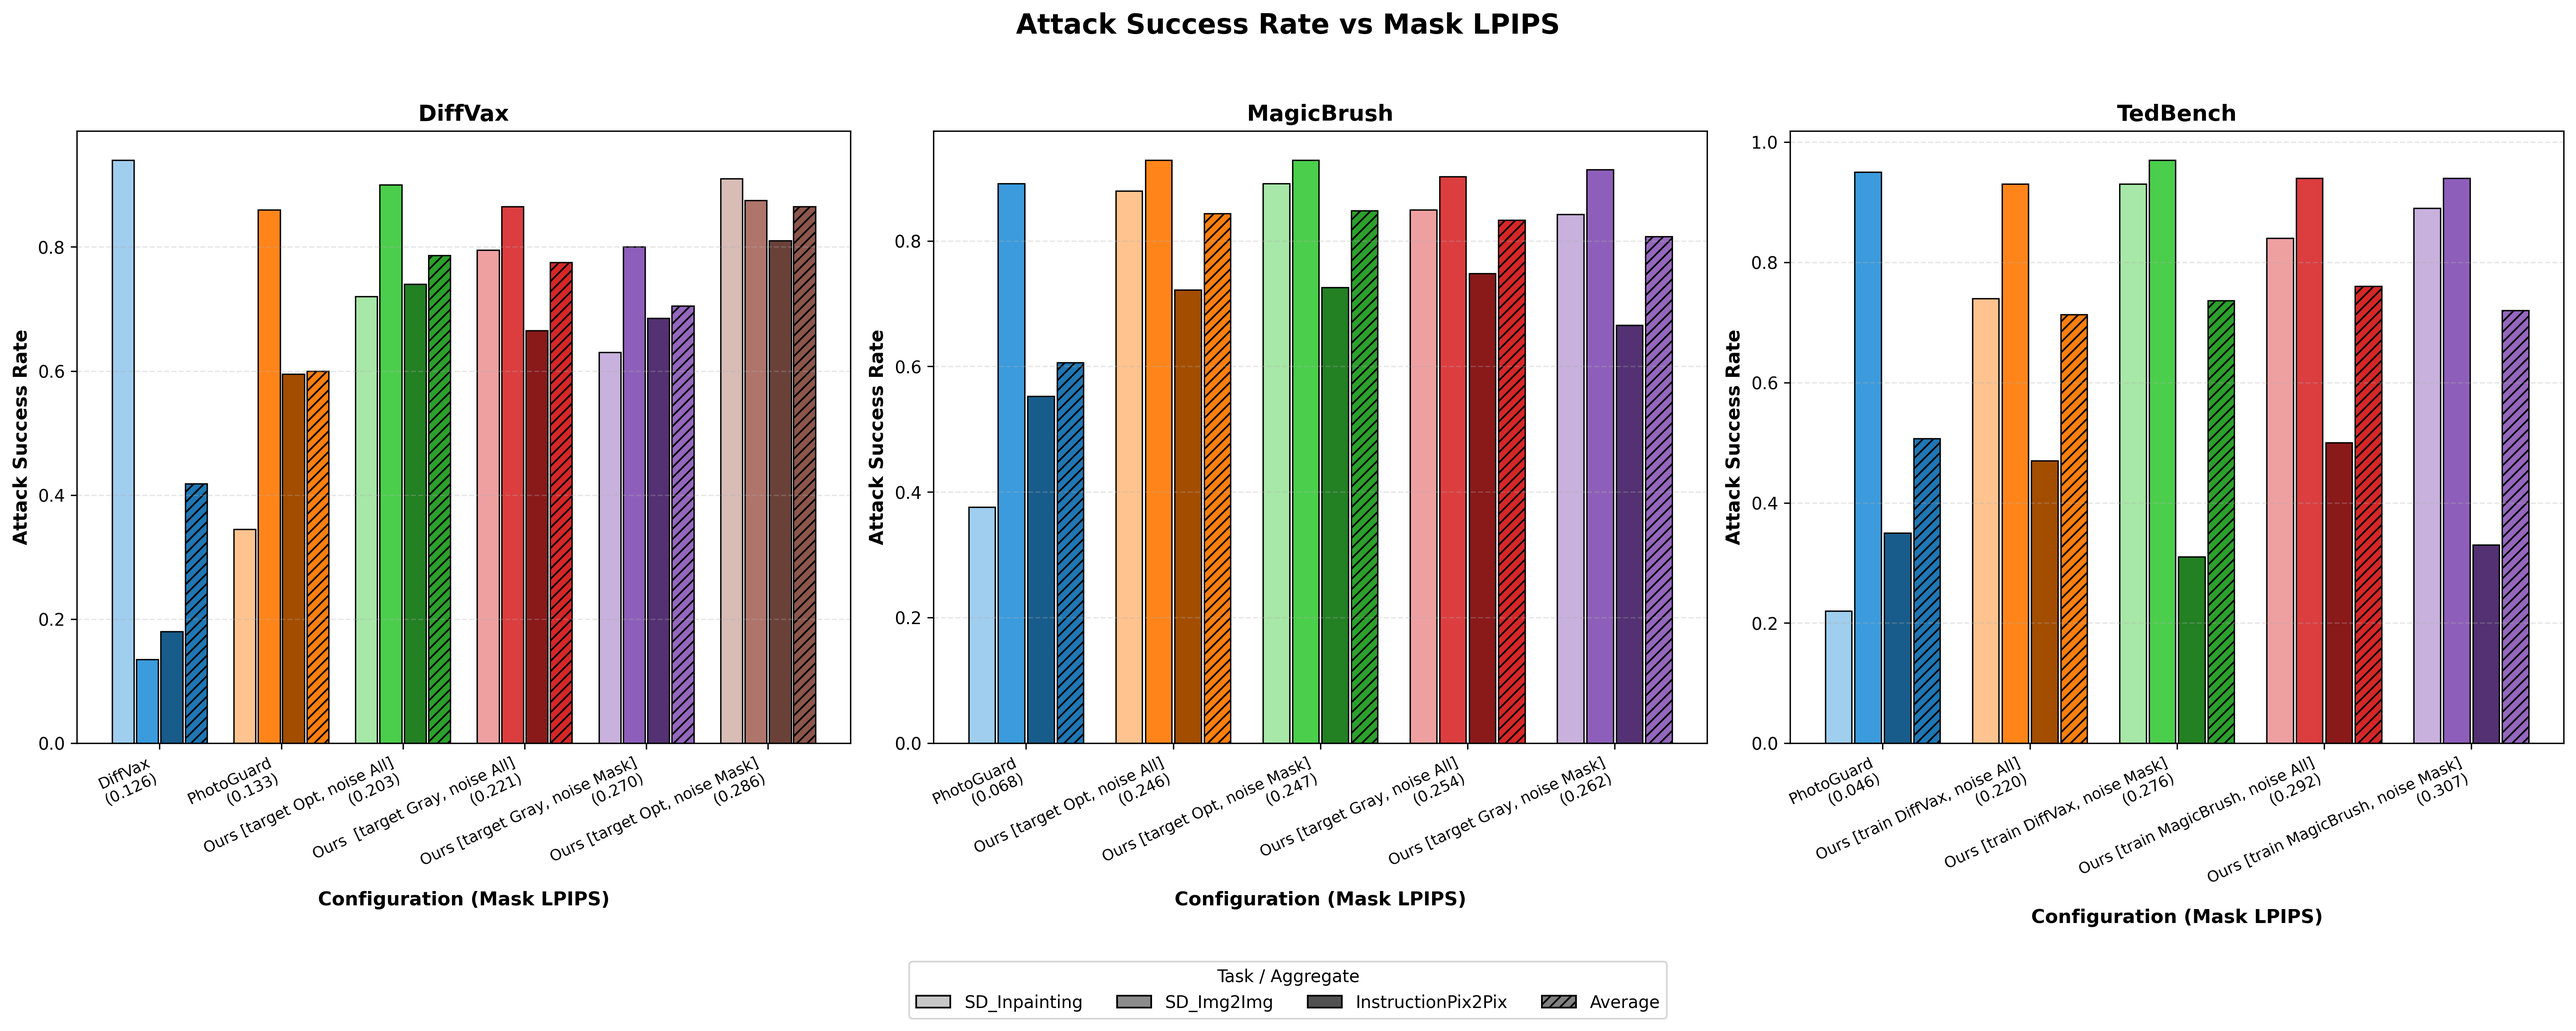
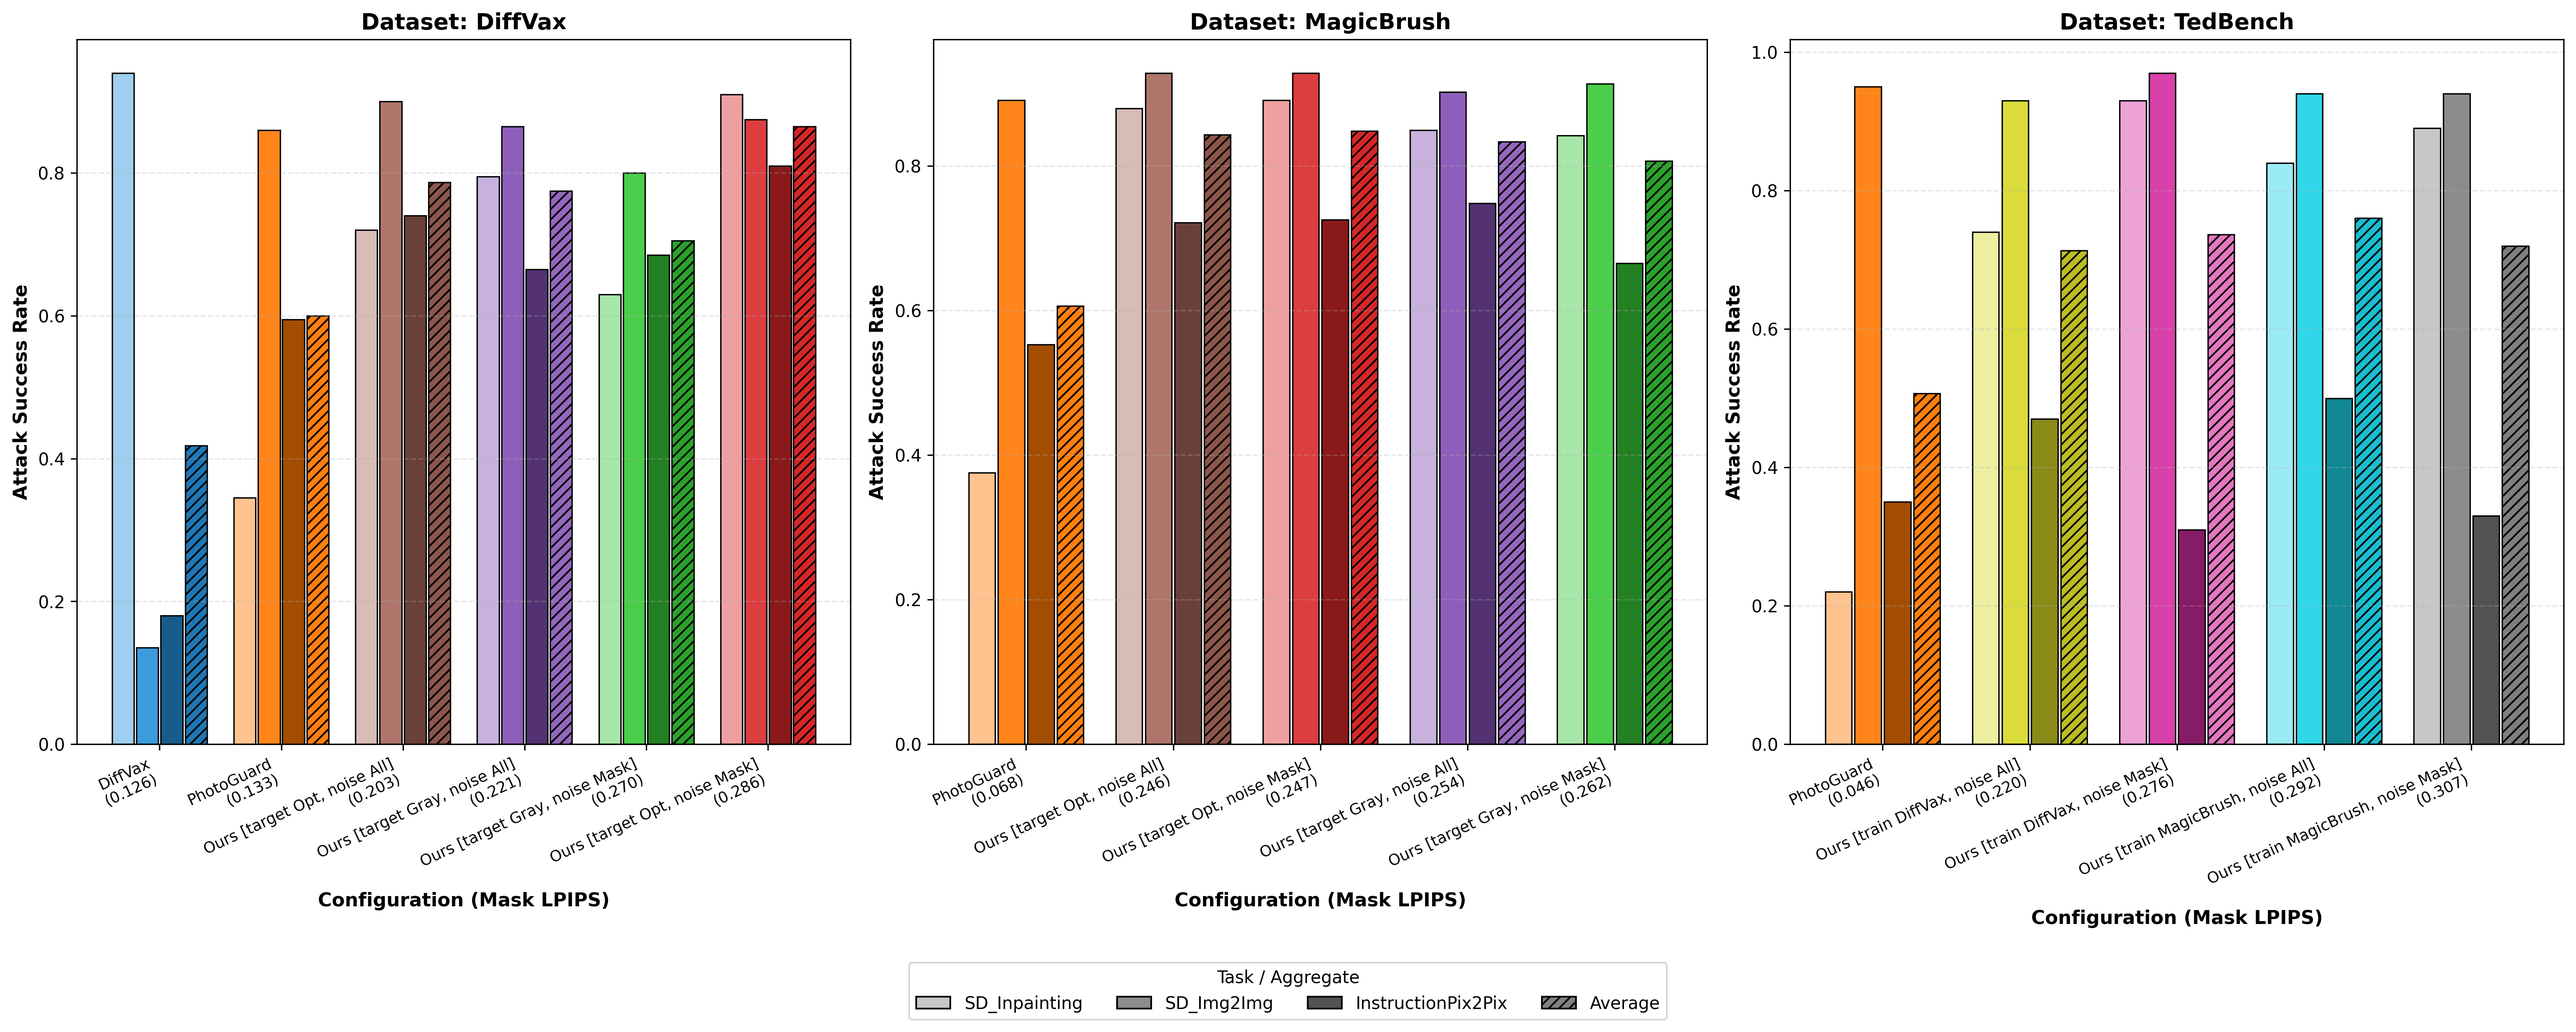
add image

diff --git a/plot_lpips_vs_qwen.py b/plot_lpips_vs_qwen.py
@@ -24,8 +24,15 @@ NOTA: solo i dataset per cui e' stata popolata almeno una lista di file
 sottografico della figura finale. Se e' popolato un solo dataset, la
 figura risultante contiene un solo grafico (non 3, con 2 vuoti).
 
+NOTA 2: la stessa CONFIGURAZIONE (basata sul nome visualizzato, cioe' il
+valore restituito da display_name()) ha lo stesso colore in tutti i
+sottografici, anche se la chiave "raw" del metodo e' diversa tra un
+dataset e l'altro (es. 'VAE_MSE_TARGET_OPT_NOISE_ALL' su DiffVax e
+'MagicBrush_TARGET_OPT_NOISE_ALL' su MagicBrush condividono la stessa
+etichetta "Ours [target Opt, noise All]" e quindi lo stesso colore).
+
 Tutti i testi disegnati nel grafico (titoli, assi, legenda) sono in
-inglese.
+inglese, tranne il prefisso "Dataset:" richiesto esplicitamente.
 """
 
 import re
@@ -45,13 +52,13 @@ from matplotlib.patches import Patch
 # CONFIGURAZIONE: un set di file (global_summary.txt) per ciascun dataset.
 # ============================================================================
 DIFFVAX_FILES: List[str] = [
-    'output/SD_Inpainting/full_dataset/VAE_MSE_BLACK/global_summary.txt',
-    'output/SD_Img2Img/full_dataset/VAE_MSE_BLACK/global_summary.txt',
-    'output/InstructionPix2Pix/full_dataset/VAE_MSE_BLACK/global_summary.txt',
+    'output/SD_Inpainting/full_dataset/DiffVax/global_summary.txt',
+    'output/SD_Img2Img/full_dataset/DiffVax/global_summary.txt',
+    'output/InstructionPix2Pix/full_dataset/DiffVax/global_summary.txt',
 
-    'output/SD_Inpainting/full_dataset/VAE_MSE_WHITE/global_summary.txt',
-    'output/SD_Img2Img/full_dataset/VAE_MSE_WHITE/global_summary.txt',
-    'output/InstructionPix2Pix/full_dataset/VAE_MSE_WHITE/global_summary.txt',
+    'output/SD_Inpainting/full_dataset/PhotoGuard/global_summary.txt',
+    'output/SD_Img2Img/full_dataset/PhotoGuard/global_summary.txt',
+    'output/InstructionPix2Pix/full_dataset/PhotoGuard/global_summary.txt',
 
     'output/SD_Inpainting/full_dataset/VAE_MSE_FT_2_STAGE/global_summary.txt',
         'output/SD_Img2Img/full_dataset/VAE_MSE_FT_2_STAGE/global_summary.txt',
@@ -61,18 +68,58 @@ DIFFVAX_FILES: List[str] = [
         'output/SD_Img2Img/full_dataset/VAE_MSE_TARGET_OPT/global_summary.txt',
         'output/InstructionPix2Pix/full_dataset/VAE_MSE_TARGET_OPT/global_summary.txt',
 
-    'output/SD_Inpainting/full_dataset/VAE_MSE_MEAN/global_summary.txt',
-        'output/SD_Img2Img/full_dataset/VAE_MSE_MEAN/global_summary.txt',
-        'output/InstructionPix2Pix/full_dataset/VAE_MSE_MEAN/global_summary.txt',
+    'output/SD_Inpainting/full_dataset/VAE_MSE_FT_2_STAGE_NOSIE_ALL/global_summary.txt',
+        'output/SD_Img2Img/full_dataset/VAE_MSE_FT_2_STAGE_NOSIE_ALL/global_summary.txt',
+        'output/InstructionPix2Pix/full_dataset/VAE_MSE_FT_2_STAGE_NOSIE_ALL/global_summary.txt',
+
+    'output/SD_Inpainting/full_dataset/VAE_MSE_TARGET_OPT_NOISE_ALL/global_summary.txt',
+        'output/SD_Img2Img/full_dataset/VAE_MSE_TARGET_OPT_NOISE_ALL/global_summary.txt',
+        'output/InstructionPix2Pix/full_dataset/VAE_MSE_TARGET_OPT_NOISE_ALL/global_summary.txt',
     
 ]
 
 MAGICBRUSH_FILES: List[str] = [
-    
+    'output/SD_Inpainting/full_dataset/MagicBrush_photoguard/global_summary.txt',
+    'output/SD_Img2Img/full_dataset/MagicBrush_photoguard/global_summary.txt',
+    'output/InstructionPix2Pix/full_dataset/MagicBrush_photoguard/global_summary.txt',
+
+    'output/SD_Inpainting/full_dataset/MagicBrush_gray_FT/global_summary.txt',
+    'output/SD_Img2Img/full_dataset/MagicBrush_gray_FT/global_summary.txt',
+    'output/InstructionPix2Pix/full_dataset/MagicBrush_gray_FT/global_summary.txt',
+
+    'output/SD_Inpainting/full_dataset/MagicBrush_gray_NOISE_ALL/global_summary.txt',
+        'output/SD_Img2Img/full_dataset/MagicBrush_gray_NOISE_ALL/global_summary.txt',
+        'output/InstructionPix2Pix/full_dataset/MagicBrush_gray_NOISE_ALL/global_summary.txt',
+
+    'output/SD_Inpainting/full_dataset/MagicBrush_target_opt/global_summary.txt',
+        'output/SD_Img2Img/full_dataset/MagicBrush_target_opt/global_summary.txt',
+        'output/InstructionPix2Pix/full_dataset/MagicBrush_target_opt/global_summary.txt',
+
+    'output/SD_Inpainting/full_dataset/MagicBrush_TARGET_OPT_NOISE_ALL/global_summary.txt',
+        'output/SD_Img2Img/full_dataset/MagicBrush_TARGET_OPT_NOISE_ALL/global_summary.txt',
+        'output/InstructionPix2Pix/full_dataset/MagicBrush_TARGET_OPT_NOISE_ALL/global_summary.txt',
 ]
 
 TEDBENCH_FILES: List[str] = [
+     'output/SD_Inpainting/full_dataset/TedBench_photoguard/global_summary.txt',
+        'output/SD_Img2Img/full_dataset/TedBench_photoguard/global_summary.txt',
+        'output/InstructionPix2Pix/full_dataset/TedBench_photoguard/global_summary.txt',
     
+        'output/SD_Inpainting/full_dataset/TedBench_diff_noise_mask_invert/global_summary.txt',
+        'output/SD_Img2Img/full_dataset/TedBench_diff_noise_mask_invert/global_summary.txt',
+        'output/InstructionPix2Pix/full_dataset/TedBench_diff_noise_mask_invert/global_summary.txt',
+    
+        'output/SD_Inpainting/full_dataset/TedBench_magic_noise_mask/global_summary.txt',
+            'output/SD_Img2Img/full_dataset/TedBench_magic_noise_mask/global_summary.txt',
+            'output/InstructionPix2Pix/full_dataset/TedBench_magic_noise_mask/global_summary.txt',
+    
+        'output/SD_Inpainting/full_dataset/TedBench_diff_noise_all/global_summary.txt',
+            'output/SD_Img2Img/full_dataset/TedBench_diff_noise_all/global_summary.txt',
+            'output/InstructionPix2Pix/full_dataset/TedBench_diff_noise_all/global_summary.txt',
+    
+        'output/SD_Inpainting/full_dataset/TedBench_magic_noise_all/global_summary.txt',
+            'output/SD_Img2Img/full_dataset/TedBench_magic_noise_all/global_summary.txt',
+            'output/InstructionPix2Pix/full_dataset/TedBench_magic_noise_all/global_summary.txt',
 ]
 
 # Ordine (e titolo) dei sottografici nella figura finale.
@@ -93,9 +140,9 @@ METHOD_LABELS: Dict[str, str] = {
     'TedBench_magic_noise_all': 'Ours [train MagicBrush, noise All]',
     'TedBench_magic_noise_mask': 'Ours [train MagicBrush, noise Mask]',
     'VAE_MSE_TARGET_OPT_NOISE_ALL': 'Ours [target Opt, noise All]',
-    'VAE_MSE_FT_2_STAGE_NOSIE_ALL': 'Gray',
-    'VAE_MSE_TARGET_OPT': 'Opt',
-    'VAE_MSE_FT_2_STAGE': 'Gray',
+    'VAE_MSE_FT_2_STAGE_NOSIE_ALL': 'Ours [target Gray, noise All]',
+    'VAE_MSE_TARGET_OPT': 'Ours [target Opt, noise Mask]',
+    'VAE_MSE_FT_2_STAGE': 'Ours [target Gray, noise Mask]',
     'MagicBrush_gray_NOISE_ALL': 'Ours [target Gray, noise All]',
     'MagicBrush_gray_FT': 'Ours [target Gray, noise Mask]',
     'MagicBrush_target_opt': 'Ours [target Opt, noise Mask]',
@@ -233,8 +280,31 @@ def load_all_data(file_paths: List[str]) -> pd.DataFrame:
     return pd.concat(all_data, ignore_index=True)
 
 
-def build_color_map(methods: List[str]) -> Dict[str, str]:
-    return {method: BASE_COLORS[idx % len(BASE_COLORS)] for idx, method in enumerate(methods)}
+def build_global_color_map(dataframes: List[pd.DataFrame]) -> Dict[str, str]:
+    """
+    Costruisce una mappa colore -> configurazione basata sul nome
+    VISUALIZZATO (display_name) della configurazione, cosi' che la
+    stessa configurazione abbia lo stesso colore in ogni sottografico,
+    anche quando la chiave "raw" del metodo differisce da un dataset
+    all'altro (es. 'MagicBrush_TARGET_OPT_NOISE_ALL' su MagicBrush e
+    'VAE_MSE_TARGET_OPT_NOISE_ALL' su DiffVax condividono la stessa
+    etichetta "Ours [target Opt, noise All]").
+
+    L'ordine di assegnazione dei colori segue l'ordine di prima
+    comparsa delle configurazioni attraverso i dataset (nell'ordine in
+    cui i dataframe vengono passati).
+    """
+    seen_labels: List[str] = []
+    for df in dataframes:
+        if df is None or df.empty:
+            continue
+        methods_in_df = list(dict.fromkeys(df['method']))
+        for method in methods_in_df:
+            label = display_name(method)
+            if label not in seen_labels:
+                seen_labels.append(label)
+
+    return {label: BASE_COLORS[idx % len(BASE_COLORS)] for idx, label in enumerate(seen_labels)}
 
 
 def plot_dataset_on_axis(
@@ -243,9 +313,13 @@ def plot_dataset_on_axis(
     title: str,
     y_column: str,
     y_label: str,
+    color_map: Dict[str, str],
 ) -> List[Patch]:
     """
     Disegna il bar plot di un singolo dataset sull'axis fornito.
+
+    ``color_map`` e' la mappa GLOBALE (condivisa tra tutti i dataset)
+    che associa ogni nome visualizzato di configurazione a un colore.
 
     Ritorna la lista di handle della legenda "Task / Aggregate"
     (pipeline + Average), identica per costruzione in ogni dataset,
@@ -265,7 +339,6 @@ def plot_dataset_on_axis(
         list(dict.fromkeys(df_clean['method'])),
         key=lambda m: lpips_by_method[m]
     )
-    color_map = build_color_map(methods)
 
     pipelines_present = list(dict.fromkeys(df_clean['pipeline']))
     pipelines_sorted = [p for p in PIPELINE_ORDER if p in pipelines_present] + \
@@ -285,7 +358,7 @@ def plot_dataset_on_axis(
         values = []
         colors = []
         for method in methods:
-            base_color = color_map[method]
+            base_color = color_map[display_name(method)]
 
             if bar_name == 'Average':
                 subset = df_clean[df_clean['method'] == method]
@@ -331,13 +404,13 @@ def create_combined_figure(
     datasets: List[Dict[str, object]],
     y_column: str = 'attack_success_rate',
     y_label: str = 'Attack Success Rate',
-    suptitle: str = 'Subject LPIPS vs Attack Success Rate',
     output_path: str = "lpips_vs_attack_success_rate_combined.png",
 ) -> None:
     """
     Crea una figura con un sottografico per ciascun dataset NON vuoto
     (in orizzontale) e un'unica legenda "Task / Aggregate" condivisa,
-    in fondo alla figura.
+    in fondo alla figura. La figura non ha un titolo generale; ogni
+    sottografico e' invece intitolato "Dataset: <nome>".
 
     Se e' popolato un solo dataset, la figura contiene un solo
     sottografico (non vengono creati subplot vuoti per gli altri).
@@ -348,28 +421,37 @@ def create_combined_figure(
         print("ERROR: no dataset has any file configured. Nothing to plot.")
         return
 
-    n_datasets = len(active_datasets)
+    # Primo passaggio: carica tutti i dataframe per poter costruire una
+    # mappa colore GLOBALE (stessa configurazione = stesso colore su
+    # tutti i sottografici).
+    loaded = []
+    for dataset in active_datasets:
+        df = load_all_data(dataset["files"])
+        loaded.append((dataset["name"], df))
+
+    color_map = build_global_color_map([df for _, df in loaded])
+
+    n_datasets = len(loaded)
     fig, axes = plt.subplots(1, n_datasets, figsize=(7 * n_datasets, 8), squeeze=False)
     axes = axes[0]
 
     shared_legend_handles: List[Patch] = []
 
-    for ax, dataset in zip(axes, active_datasets):
-        name = dataset["name"]
-        files = dataset["files"]
-
-        df = load_all_data(files)
+    for ax, (name, df) in zip(axes, loaded):
+        title = f"Dataset: {name}"
 
         if df.empty:
-            ax.set_title(f"{name} (no data)", fontsize=13, fontweight='bold')
+            ax.set_title(f"{title} (no data)", fontsize=13, fontweight='bold')
             ax.axis('off')
             continue
 
-        handles = plot_dataset_on_axis(ax, df, title=name, y_column=y_column, y_label=y_label)
+        handles = plot_dataset_on_axis(
+            ax, df, title=title, y_column=y_column, y_label=y_label, color_map=color_map,
+        )
         if handles and not shared_legend_handles:
             shared_legend_handles = handles
 
-    fig.suptitle(suptitle, fontsize=16, fontweight='bold')
+    # Nessun titolo generale della figura (rimosso su richiesta).
 
     if shared_legend_handles:
         fig.legend(
@@ -381,7 +463,7 @@ def create_combined_figure(
             fontsize=10,
         )
 
-    plt.tight_layout(rect=(0, 0.03, 1, 0.95))
+    plt.tight_layout(rect=(0, 0.03, 1, 1))
     plt.savefig(output_path, dpi=300, bbox_inches='tight')
     print(f"Figure saved: {output_path}")
     plt.show()
@@ -401,7 +483,6 @@ def main():
         DATASETS,
         y_column='attack_success_rate',
         y_label='Attack Success Rate',
-        suptitle='Attack Success Rate vs Mask LPIPS',
         output_path="lpips_vs_attack_success_rate_combined.png",
     )
 
